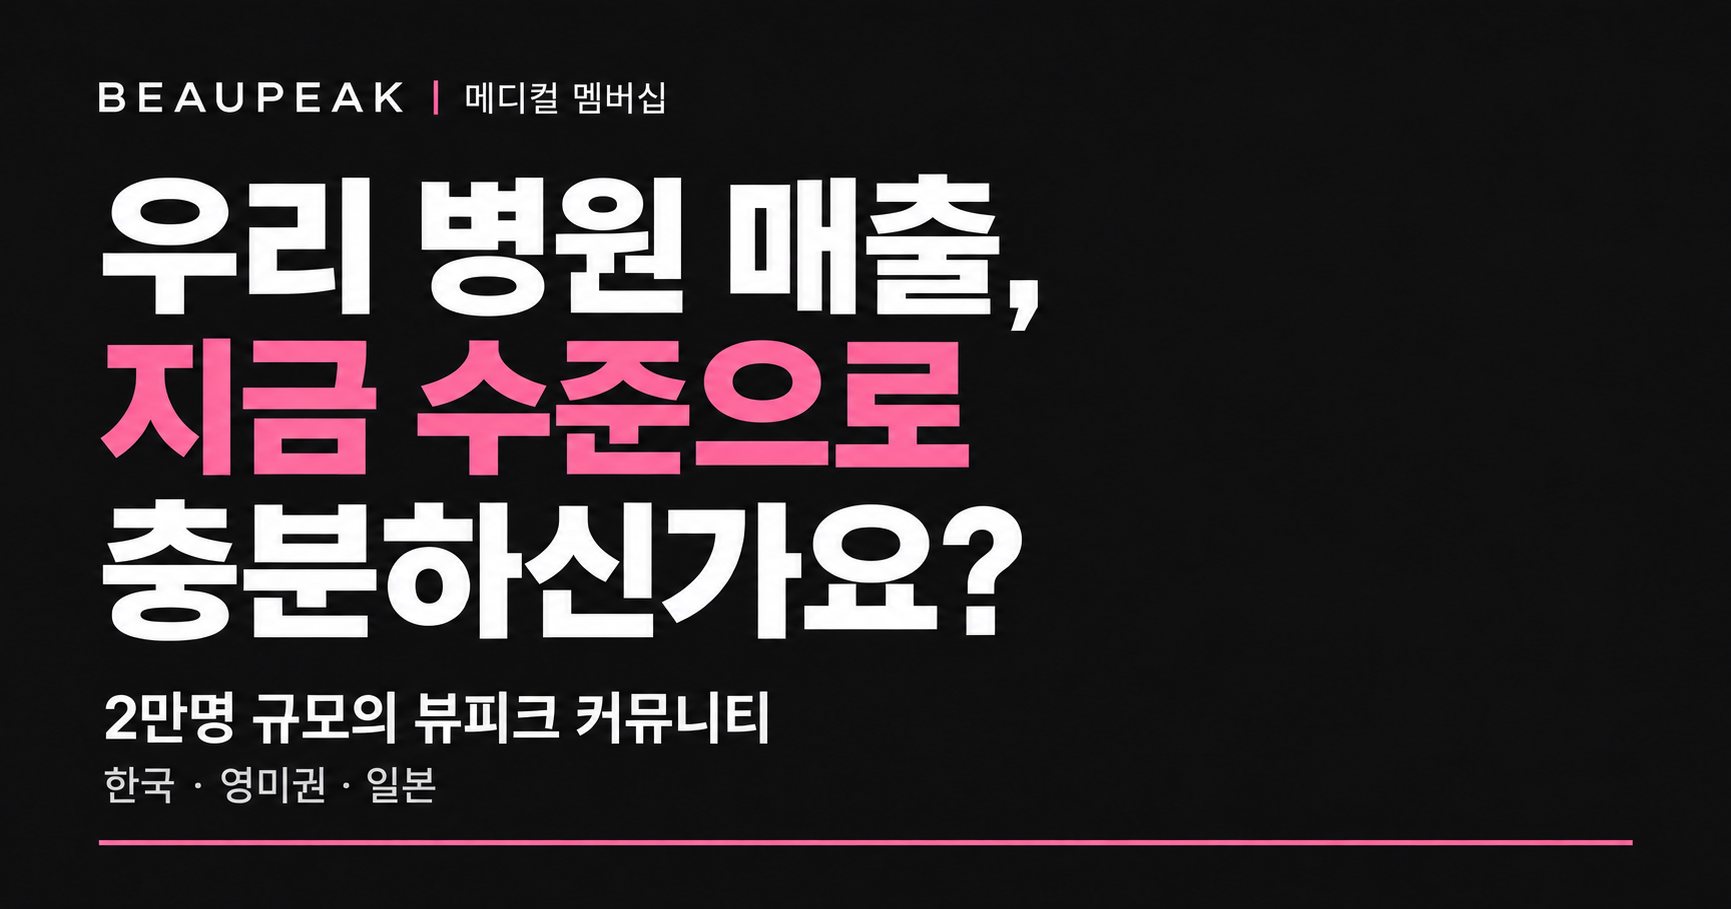
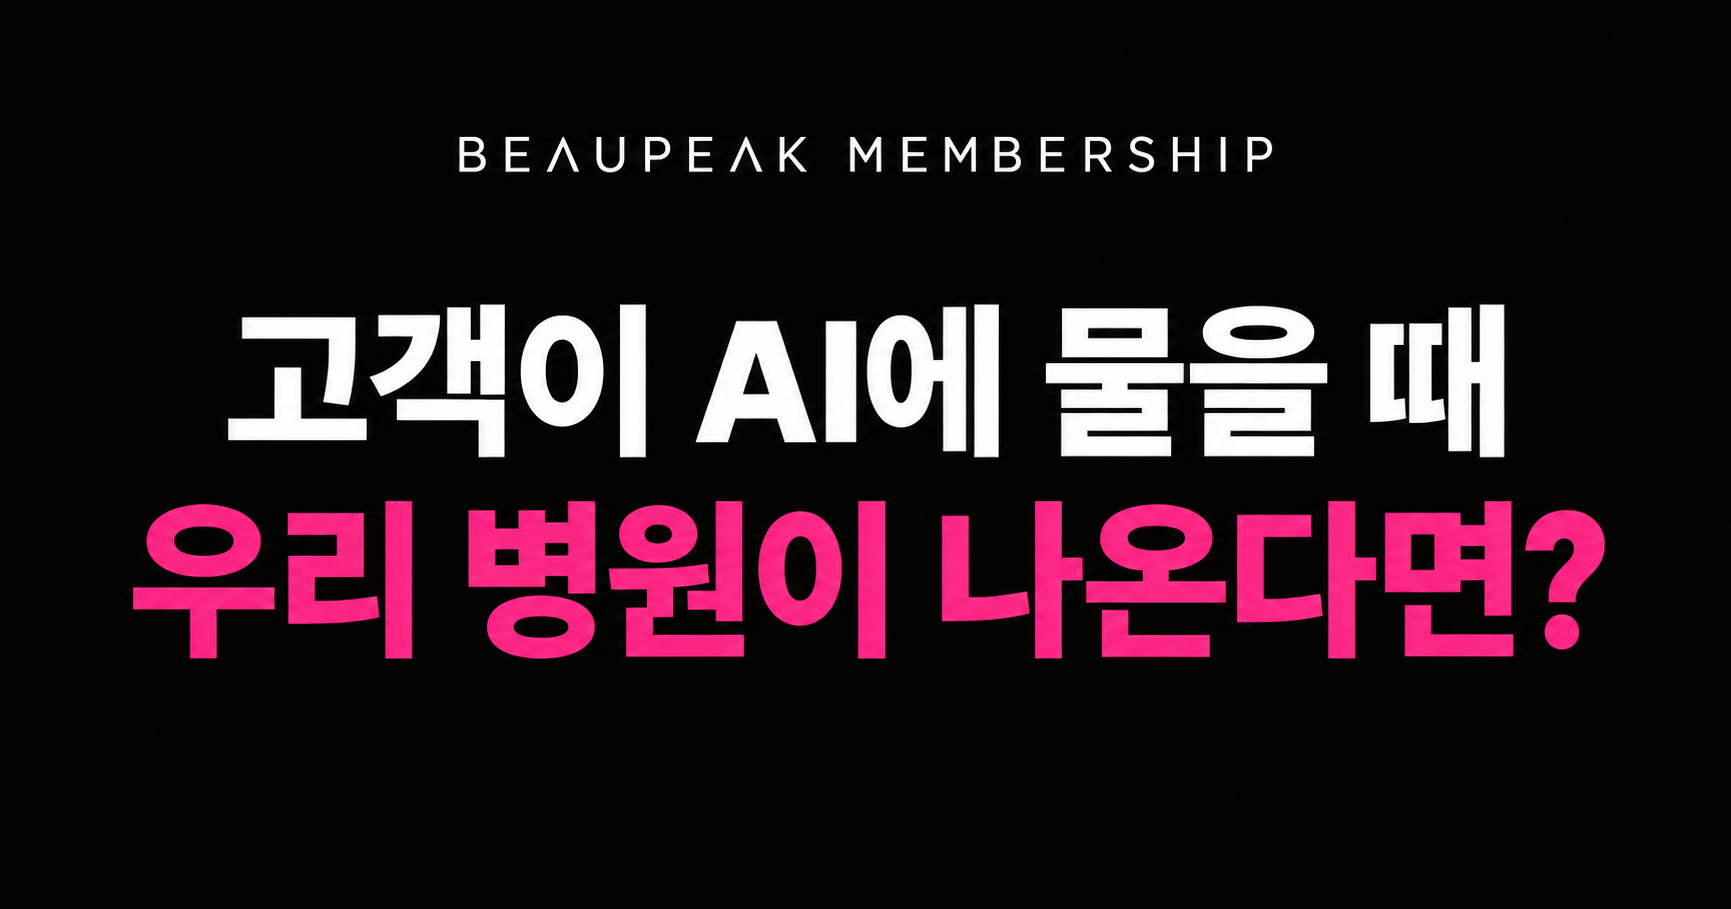
Add files via upload

diff --git a/membership/index.html b/membership/index.html
@@ -1,4 +1,4 @@
-<!doctype html><html lang="ko"><link rel="icon" type="image/svg+xml" href="/favicon-gold.svg"><meta charset="utf-8"><meta name="viewport" content="width=device-width,initial-scale=1"><title>뷰피크 메디컬 멤버십</title><meta name="description" content="한국·영미권·일본, 뷰피크 메디컬 멤버십 멤버십 병원 모집"><meta property="og:type" content="website"><meta property="og:site_name" content="뷰피크"><meta property="og:title" content="우리 병원 매출, 지금 수준으로 충분하신가요?"><meta property="og:description" content="국내 고객부터 국내 거주 외국인, 해외 고객까지. 2만명 규모의 뷰피크 커뮤니티와 함께 우리 병원을 알릴 시장을 넓히세요"><meta property="og:image" content="https://www.kmedical-network.co.kr/membership/og-image.png"><meta property="og:image:width" content="1731"><meta property="og:image:height" content="909"><meta property="og:image:alt" content="뷰피크 메디컬 멤버십 — 우리 병원 매출, 지금 수준으로 충분하신가요?"><meta name="twitter:card" content="summary_large_image"><meta name="twitter:image" content="https://www.kmedical-network.co.kr/membership/og-image.png"><style>
+<!doctype html><html lang="ko"><link rel="icon" type="image/svg+xml" href="/favicon.svg"><meta charset="utf-8"><meta name="viewport" content="width=device-width,initial-scale=1"><title>뷰피크 메디컬 멤버십</title><meta name="description" content="한국·영미권·일본, 뷰피크 메디컬 멤버십 멤버십 병원 모집"><meta property="og:type" content="website"><meta property="og:site_name" content="뷰피크"><meta property="og:title" content="AI 검색부터 글로벌 고객까지, 뷰피크 메디컬 멤버십"><meta property="og:description" content="2만명 규모의 뷰피크 커뮤니티와 함께 병원을 알릴 시장을 넓혀보세요."><meta property="og:image" content="https://www.kmedical-network.co.kr/membership/og-image.png"><meta property="og:image:width" content="1731"><meta property="og:image:height" content="909"><meta property="og:image:alt" content="고객이 AI에 물을 때 우리 병원이 나온다면?"><meta name="twitter:card" content="summary_large_image"><meta name="twitter:image" content="https://www.kmedical-network.co.kr/membership/og-image.png"><style>
 @import url('https://fonts.googleapis.com/css2?family=Noto+Sans+KR:wght@400;500;600;700;800;900&display=swap');
 :root{--ink:#211c36;--purple:#7150e8;--lime:#d8fb76;--paper:#f7f6fb}*{box-sizing:border-box}html{scroll-behavior:smooth;scroll-padding-top:85px}body{margin:0;color:var(--ink);font-family:'Noto Sans KR',sans-serif;background:var(--paper);word-break:keep-all}a{color:inherit;text-decoration:none}header{height:80px;display:flex;align-items:center;justify-content:space-between;padding:0 5%;background:#fffefbdf;backdrop-filter:blur(15px);position:sticky;top:0;z-index:8;border-bottom:1px solid #eae7f0}.logo{font-size:25px;font-weight:900;letter-spacing:-1.3px}.logo i{font-style:normal;color:var(--purple)}nav{display:flex;gap:30px;font-size:13px;font-weight:600}.label{font-size:11px;letter-spacing:2px;font-weight:800;color:var(--purple)}section{padding:110px max(6%,calc((100vw - 1240px)/2));}h1{font-size:clamp(40px,4.7vw,70px);line-height:1.22;letter-spacing:-3px;margin:25px 0}h2{font-size:clamp(30px,3.4vw,48px);letter-spacing:-2px;line-height:1.3;margin:20px 0 26px}h3{font-size:23px;letter-spacing:-.8px}p{font-size:16px;line-height:1.85;color:#766e87}.hero{min-height:790px;background:#eeebfa;display:grid;grid-template-columns:1.25fr 1fr;align-items:center;gap:40px;overflow:hidden;padding-top:65px;padding-bottom:80px}.hero em{color:var(--purple);font-style:normal}.pill{display:inline-flex;align-items:center;gap:8px;border-radius:99px;padding:9px 14px;background:white;font-size:11px;font-weight:700}.pill:before{content:'';width:7px;height:7px;background:var(--purple);border-radius:50%}.markets{display:flex;gap:9px;margin-top:28px}.markets span{border:1px solid #c9bedf;border-radius:30px;padding:9px 17px;font-size:13px}.visual{position:relative;min-height:470px;display:grid;place-items:center}.orbit{position:absolute;border:1px solid #c9bced;border-radius:50%;width:420px;height:420px;transform:rotate(-24deg)}.orbit:after{content:'';position:absolute;inset:35px -35px;border:1px solid #c9bced;border-radius:50%;transform:rotate(65deg)}.hub{background:var(--purple);color:white;width:230px;height:230px;border-radius:50%;display:flex;flex-direction:column;justify-content:center;align-items:center;box-shadow:0 25px 80px #7150e842;z-index:1}.hub strong{font-size:43px;letter-spacing:-2px}.hub small{font-size:11px;letter-spacing:3px}.float{position:absolute;z-index:2;background:white;padding:19px 25px;border-radius:17px;box-shadow:0 14px 40px #30215410;min-width:160px}.float small{display:block;color:#8a8298;font-size:11px;margin-bottom:5px}.float b{font-size:22px}.f1{top:15px;left:0}.f2{right:-10px;top:145px}.f3{bottom:5px;left:15px;background:var(--lime)}.vlabel{position:absolute;bottom:-38px;font-size:10px;letter-spacing:2px;color:#9084aa}.strip{padding:24px 6%;background:var(--ink);color:white;display:flex;justify-content:center;gap:70px;font-size:12px}.strip strong{color:var(--lime)}.split{display:grid;grid-template-columns:1fr 1fr;gap:60px;align-items:start}.steps{margin-top:35px}.step{display:flex;gap:23px;border-bottom:1px solid #ddd7e6;padding:22px 0;align-items:center}.step b{color:var(--purple);font-size:12px}.step strong{font-size:20px}.step span{color:#8a8298;font-size:13px;margin-left:auto}.stats{background:white}.statsgrid{display:grid;grid-template-columns:repeat(5,1fr);margin:45px 0;border-top:1px solid #e6e1ed;border-bottom:1px solid #e6e1ed}.stat{padding:30px 20px;border-right:1px solid #e6e1ed}.stat:last-child{border:0}.stat strong{display:block;font-size:37px;letter-spacing:-2px}.stat small{font-size:11px;color:#8a8298}.stat p{font-size:12px;line-height:1.7}.grow{padding:25px 30px;background:#f2effc;display:flex;justify-content:space-between;align-items:center;border-radius:12px}.grow p{margin:0;font-size:14px}.channels{display:flex;flex-wrap:wrap;gap:10px;margin-top:28px}.channels a{padding:12px 18px;border:1px solid #ddd7e6;border-radius:40px;font-size:12px}.channels a:hover{background:var(--purple);color:white}.member{background:#252035;color:white}.member .label{color:var(--lime)}.member p{color:#b8afca}.membership{margin-top:45px;display:grid;grid-template-columns:.8fr 1.7fr;border-top:1px solid #4e465e;gap:65px}.price{padding-top:38px}.price strong{font-size:75px;letter-spacing:-4px}.price span{font-size:23px}.price small{display:block;color:#b8afca;margin-top:10px;font-size:12px}.benefits{display:grid;grid-template-columns:1fr 1fr;gap:0 35px}.benefit{border-bottom:1px solid #4e465e;padding:24px 0}.benefit small{color:var(--lime);font-size:11px}.benefit h3{font-size:17px;margin:10px 0 7px}.benefit p{font-size:12px;margin:0;line-height:1.7}.bridge{margin-top:45px;font-size:20px;color:white!important}.products{background:#f0ecfa}.product{background:white;border-radius:16px;margin-top:15px;padding:30px 35px;display:grid;grid-template-columns:55px 1fr 230px;gap:15px;align-items:center}.product .n{font-size:12px;color:var(--purple)}.product h3{margin:0 0 9px;font-size:21px}.product p{font-size:13px;margin:0}.amount{text-align:right;font-weight:800;font-size:27px;letter-spacing:-1px}.amount small{display:block;font-size:11px;font-weight:400;color:#8a8298;letter-spacing:0;margin-top:8px}.note{font-size:12px}.consult{background:#e0f5ab}.consult .label{color:#48632c}.consult p{color:#637148}.process{display:flex;gap:10px;margin:30px 0}.process span{background:#ffffff80;padding:18px 22px;border-radius:9px;font-weight:700}.end{background:var(--purple);color:white;text-align:center;padding-bottom:160px}.end .label{color:var(--lime)}.end p{color:#e6ddff}.end h2{font-size:clamp(36px,4.4vw,62px)}footer{padding:32px 6% 120px;background:var(--ink);color:#aea5bf;display:flex;justify-content:space-between;font-size:11px}.fixed{position:fixed;bottom:22px;left:50%;transform:translateX(-50%);z-index:10;width:min(620px,calc(100% - 32px));background:#fff;box-shadow:0 12px 60px #17112835;border-radius:14px;padding:10px 10px 10px 24px;display:flex;align-items:center;justify-content:space-between;gap:18px}.fixed small{font-size:11px;color:#80748e;display:block}.fixed b{font-size:14px}button{font:inherit;cursor:pointer}.fixed button{background:var(--lime);color:var(--ink);border:0;border-radius:9px;padding:17px 23px;font-size:14px;font-weight:800}dialog{border:0;border-radius:20px;padding:35px;width:min(510px,92%);color:var(--ink)}dialog::backdrop{background:#16102399;backdrop-filter:blur(5px)}dialog h2{font-size:27px;margin-top:0}dialog p{font-size:13px}label{display:block;font-size:12px;margin:15px 0 6px}input,select{width:100%;padding:12px;border:1px solid #d5cde3;border-radius:7px;background:white;font:inherit;font-size:13px}.close{float:right;background:none;border:0;font-size:22px}.copy{margin-top:20px;width:100%;background:var(--purple);color:white;border:0;padding:15px;border-radius:8px}#status{font-size:12px;color:var(--purple)}@media(min-width:1000px){section{scroll-snap-align:start}html{scroll-snap-type:y proximity}}@media(max-width:850px){nav{gap:16px;font-size:11px}nav a:first-child{display:none}.hero{grid-template-columns:1fr;gap:25px;padding-top:50px}.hero h1{letter-spacing:-2px}.visual{min-height:390px;max-width:420px;width:100%;margin:auto}.orbit{width:330px;height:330px}.hub{width:200px;height:200px}.f2{right:0}.float{padding:15px 19px;min-width:140px}.float b{font-size:19px}.strip{gap:16px;font-size:10px;flex-wrap:wrap}section{padding:70px 6%}.split,.membership{grid-template-columns:1fr;gap:20px}.statsgrid{grid-template-columns:repeat(2,1fr)}.stat{border-bottom:1px solid #e6e1ed}.stat:first-child{grid-column:span 2}.stat strong{font-size:34px}.grow{display:block}.grow p{margin-top:10px}.benefits{gap:0 20px}.product{grid-template-columns:25px 1fr;padding:25px 20px}.amount{grid-column:2;text-align:left;font-size:23px}.process{gap:6px}.process span{font-size:12px;padding:15px 13px}.fixed{bottom:12px;padding-left:16px}.fixed button{padding:16px 14px;font-size:12px}.fixed b{font-size:12px}.fixed small{font-size:9px}footer{display:block}footer span{display:block;margin-top:10px}}
 
@@ -32,8 +32,8 @@ header{position:fixed;top:0;left:0;width:100%;z-index:30;height:72px}main{paddin
 @media(max-width:600px){.ai-copy h2{font-size:clamp(24px,6.6vw,30px)}.end .membership-limit{margin-top:48px}}
 </style>
 <header><a class="logo" target="_blank" rel="noopener noreferrer" href="https://beaupeak.co.kr" aria-label="뷰피크 홈">BEAU<br>PEAK</a></header><main><section class="hero" data-section="1"><div><h1>우리 병원 매출,<br><em>지금 수준으로</em><br>충분하신가요?</h1><p>국내 고객부터 국내 거주 외국인, 해외 고객까지<br>2만명 규모의 뷰피크 커뮤니티와 함께<br>우리 병원을 알릴 시장을 넓히세요</p></div><div class="visual"><div class="poster"><div class="poster-top">BEAUPEAK <span>MEDICAL</span></div><div class="poster-title"><span class="poster-line">우리 병원을 찾는 고객,</span><br><em>더 넓게 만나세요</em></div><div class="poster-markets"><div><b>01</b>한국<span>국내 고객 · 국내 거주 외국인</span></div><div><b>02</b>영미권<span>영어로 만나는 병원 정보</span></div><div><b>03</b>일본<span>일본어로 만나는 병원 정보</span></div></div><div class="poster-limit"><span>지역·진료 분야별</span><strong>멤버십 TO 한정</strong></div></div></div></section>
-<section class="ai-search" id="ai-search" data-section="2"><div class="ai-copy"><h2>고객이 AI에 물을 때<br><em>우리 병원도 나오나요?</em></h2><p>고객이 궁금해하는 질문에<br>우리 병원의 정보와 전문성으로 답합니다<br>한국어·영어·일본어 콘텐츠로 검색 접점을 넓힙니다</p></div><div class="ai-panel"><div class="ai-query">강남에서 리프팅 상담받을 병원은?<svg viewBox="0 0 32 32" aria-hidden="true"><circle cx="13" cy="13" r="9"/><path d="m20 20 9 9"/></svg></div><div class="ai-row"><b>01</b><div><h3>병원 정보</h3><p>지역 · 진료 분야 · 의료진</p></div></div><div class="ai-row"><b>02</b><div><h3>질문형 콘텐츠</h3><p>고객이 궁금해하는 내용에 대한 답변</p></div></div><div class="ai-row"><b>03</b><div><h3>다국어 발행</h3><p>한국어 · 영어 · 일본어</p></div></div><div class="ai-foot"><strong>검색 결과 노출부터 AI 답변까지</strong><span>SEO · AEO · GEO</span></div></div></section>
-<section class="discovery" data-section="3"><div class="split discovery-body"><div><h2>고객이 병원을 고르는 곳에<br>우리 병원이 있어야 합니다</h2></div><div><p>검색하고, 비교하고, 질문하는 고객들<br>뷰피크는 웹·카페·오픈채팅과 SNS를 연결해<br>병원을 발견하고 알아볼 접점을 만듭니다</p><div class="steps"><div class="step"><b>01</b><strong>발견</strong><span>SNS · 커뮤니티</span></div><div class="step"><b>02</b><strong>탐색과 확인</strong><span>병원 리스트 · 킬러 콘텐츠</span></div><div class="step"><b>03</b><strong>병원 문의</strong><span>병원 지정 상담 · 예약 채널</span></div></div></div></div></section>
+<section class="ai-search" id="ai-search" data-section="2"><div class="ai-copy"><h2>고객이 AI에 물을 때<br><em>우리 병원이 나온다면?</em></h2><p>고객이 궁금해하는 질문에<br>우리 병원의 정보와 전문성으로 답합니다<br>한국어·영어·일본어 콘텐츠로 검색 접점을 넓힙니다</p></div><div class="ai-panel"><div class="ai-query">강남에서 리프팅 상담받을 병원은?<svg viewBox="0 0 32 32" aria-hidden="true"><circle cx="13" cy="13" r="9"/><path d="m20 20 9 9"/></svg></div><div class="ai-row"><b>01</b><div><h3>병원 정보</h3><p>지역 · 진료 분야 · 의료진</p></div></div><div class="ai-row"><b>02</b><div><h3>질문형 콘텐츠</h3><p>고객이 궁금해하는 내용에 대한 답변</p></div></div><div class="ai-row"><b>03</b><div><h3>다국어 발행</h3><p>한국어 · 영어 · 일본어</p></div></div><div class="ai-foot"><strong>검색 결과 노출은 기본! (SEO)<br>AI 검색부터 글로벌 고객까지<br>(AEO, GEO)</strong><span>뷰피크 메디컬 멤버십</span></div></div></section>
+<section class="discovery" data-section="3"><div class="split discovery-body"><div><h2>고객이 병원을 고르는 곳에<br>우리 병원이 있어야 합니다</h2></div><div><p>검색하고, 비교하고, 질문하는 고객들<br>뷰피크는 웹·카페·오픈채팅과 SNS를 연결해<br>병원을 발견하고 알아볼 접점을 만듭니다</p><div class="steps"><div class="step"><b>01</b><strong>발견</strong><span>SNS · 커뮤니티 · AI 검색</span></div><div class="step"><b>02</b><strong>탐색과 확인</strong><span>병원 리스트 · 킬러 콘텐츠</span></div><div class="step"><b>03</b><strong>병원 문의</strong><span>병원 지정 상담 · 예약 채널</span></div></div></div></div></section>
 <section class="stats" id="community" data-section="4"><h2>이미 모여 있는 관심을<br>우리 병원과 연결할 접점으로</h2><div class="statsgrid"><div class="stat"><small>BEAUPEAK</small><strong>2만명</strong><p>뷰피크 웹·카페<br>커뮤니티 규모</p></div><div class="stat"><small>YOUTUBE</small><strong>5,000+</strong><p>환승닥터<br>유튜브 구독자</p></div><div class="stat"><small>INSTAGRAM</small><strong>2,000+</strong><p>환승닥터<br>인스타 팔로워</p></div><div class="stat"><small>BEAUTY TALK</small><strong>500명대</strong><p>피부·미용·성형<br>정보 단톡</p></div><div class="stat"><small>DENTAL TALK</small><strong>260명대</strong><p>치과 정보 단톡</p></div></div><div class="grow"><strong>커뮤니티의 다음 성장을 함께</strong><p>커뮤니티 MOU를 확대해 병원의 노출 접점을 넓혀갈 계획입니다</p></div></section><section class="stats channel-section" id="channels" data-section="5"><div class="channel-heading"><h2>채널 하나가 아닌<br>연결된 미디어 네트워크</h2><p>정보가 쌓이고, 대화가 이어지고, 콘텐츠가 퍼지는 곳<br>각 채널을 연결해 우리 병원을 알립니다</p></div><div class="channel-grid"><a class="channel" href="https://beaupeak.co.kr" target="_blank" rel="noopener"><div class="channel-top"><i style="color:#ff78a5">B</i><span>↗</span></div><h3>뷰피크 웹</h3><strong>한국 · 영미권 · 일본</strong><p>병원 정보를 살펴보는 글로벌 공간</p></a><a class="channel" href="https://cafe.naver.com/lohaha" target="_blank" rel="noopener"><div class="channel-top"><i style="color:#03c75a">N</i><span>↗</span></div><h3>뷰피크 카페</h3><strong>20,000명</strong><p>질문과 정보, 병원 콘텐츠가 쌓이는 커뮤니티</p></a><a class="channel" href="https://www.youtube.com/@환승닥터_의사이야기" target="_blank" rel="noopener"><div class="channel-top"><i style="color:#ff4242">▶</i><span>↗</span></div><h3>환승닥터 유튜브</h3><strong>5,000+ 구독자</strong><p>의료진과 진료 이야기를 깊이 있게</p></a><a class="channel" href="https://www.instagram.com/transfer__doctor" target="_blank" rel="noopener"><div class="channel-top"><i style="color:#ef6baf">◎</i><span>↗</span></div><h3>환승닥터 인스타</h3><strong>2,000+ 팔로워</strong><p>짧은 콘텐츠로 넓히는 고객 접점</p></a><a class="channel" href="https://www.threads.com/@transferhera.official" target="_blank" rel="noopener"><div class="channel-top"><i style="color:#ffffff">@</i><span>↗</span></div><h3>스레드</h3><strong>뷰티 · 시술 페르소나</strong><p>의료·뷰티·일상 전반적으로 소통</p></a><a class="channel" href="https://www.tiktok.com/@transfer_doctor" target="_blank" rel="noopener"><div class="channel-top"><i style="color:#69e9e4">♪</i><span>↗</span></div><h3>틱톡</h3><strong class="metric-empty" aria-hidden="true">&nbsp;</strong><p>짧고 선명하게 전하는 진료 이야기</p></a><a class="channel" href="https://clip.naver.com/@transfer_doctor?tab=all&filter=all" target="_blank" rel="noopener"><div class="channel-top"><i style="color:#9cf85e">C</i><span>↗</span></div><h3>네이버 클립</h3><strong class="metric-empty" aria-hidden="true">&nbsp;</strong><p>네이버에서 만나는 의료 숏폼</p></a><a class="channel" href="https://open.kakao.com/o/gwUCsCzb" target="_blank" rel="noopener"><div class="channel-top"><i style="color:#fee500">TALK</i><span>↗</span></div><h3>피부·미용·성형 정보 단톡</h3><strong>500명대</strong><p>관심 고객이 실시간으로 소통하는 공간</p></a><a class="channel" href="https://open.kakao.com/o/gpQJDEvf" target="_blank" rel="noopener"><div class="channel-top"><i style="color:#fee500">TALK</i><span>↗</span></div><h3>치과 정보 단톡</h3><strong>260명대</strong><p>치과 정보와 궁금증을 나누는 공간</p></a><div class="channel channel-soon"><div class="channel-top"><i>+</i></div><h3>COMING SOON</h3><strong class="metric-empty" aria-hidden="true">&nbsp;</strong><p>우리 병원을 알릴 채널,<br>계속 넓혀갑니다</p></div></div></section>
 <section class="member" id="membership" data-section="6"><h2>우리 병원을 알릴 공간과<br>커뮤니티를 함께</h2><div class="membership"><div class="price"><span>메디컬 멤버십</span><div class="membership-price"><strong>100</strong><span>만원 / 월</span><small class="vat">부가세 별도</small></div><p>국내에서 글로벌까지<br>병원 노출 및 확산의 기반을 갖추세요</p></div><div class="benefits" id="benefits"></div></div></section>
 <section class="products" id="marketing" data-section="7"><h2>멤버십으로 기반을 만들고,<br>콘텐츠와 마케팅으로 더 넓게 알리세요</h2><div id="products"></div></section>
